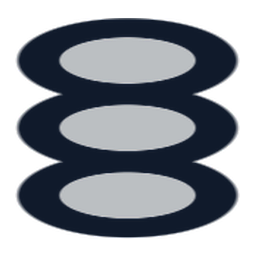
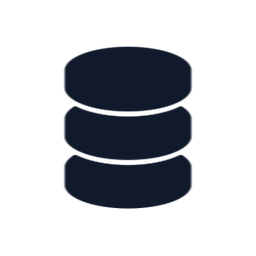
Collect is coins with gaps between them, and the motion moves to the button's own beat

diff --git a/tools/ui/build-hud-icon.js b/tools/ui/build-hud-icon.js
@@ -203,31 +203,50 @@ function reticleIcon() {
 }
 
 /**
- * A stack of coins, for the button that banks what the base has earned.
+ * Coins, drawn as coins: the stack that the collect button banks.
  *
- * Collecting is the most repeated act in the game, and it was announced by a plate reading
- * "E COLLECT 4.2K" parked above the controls. The amount belongs in the counter, which
- * already states the pool; the button only has to say what it does, and three discs with a
- * rim say coins at any size.
+ * The first version stacked three flat ellipses and lightened the inside of each one so the
+ * pile would not read as a blob. Tone is the wrong tool for this. On the gold disc the
+ * lightened faces let the plate show through and the glyph came out muddy, and at the size a
+ * thumb sees it the interior is the first thing that disappears: "le seul qui est un peu
+ * confus" (owner, 5 Sep). This repo already knew the answer and wrote it under the crate,
+ * three functions below: it is the GAPS that draw, not the added lines.
+ *
+ * So each coin is a capsule with elliptical caps, a face and a short side, and each one knocks
+ * a clear gap out of the coin under it. Three solid pieces, two clean separations, nothing to
+ * read inside. The perspective is the genre's: seen from just above, which is what makes a
+ * disc read as money rather than as a button.
  */
-function collectIcon() {
+const PIECE = { rx: 0.28, ry: 0.105, cote: 0.075, jeu: 0.022 }
+
+/** Coverage of one coin: a vertical capsule whose caps are ellipses, antialiased over a pixel. */
+function piece(fx, fy, cx, cy, grossi) {
+  const rx = PIECE.rx + grossi, ry = PIECE.ry + grossi
+  const dy = fy < cy ? fy - cy : fy > cy + PIECE.cote ? fy - (cy + PIECE.cote) : 0
+  const e = Math.hypot((fx - cx) / rx, dy / ry)
+  return Math.min(1, Math.max(0, (1 - e) * SIZE * 0.09))
+}
+
+/**
+ * The stack, with its top coin lifted by `envol`.
+ *
+ * The still picture says money; the button says COLLECT by MOVING it. `Pouce` plays a pose
+ * for 220 ms, the next for 100, then holds the rest pose, so the three files read as one coin
+ * dropping onto the pile, which is the act the button performs. A trail or a second coin in
+ * the air was tried instead and failed its own silhouette test: at 87 px on a phone the
+ * strokes vanish and the flying coin reads as a second stack (rendered and measured, 5 Sep).
+ */
+function collectIcon(envol = 0) {
   const px = Buffer.alloc(SIZE * SIZE * 4)
   const S = SIZE
-  const disques = [
-    { cy: 0.70, rx: 0.30, ry: 0.115 },
-    { cy: 0.52, rx: 0.30, ry: 0.115 },
-    { cy: 0.34, rx: 0.30, ry: 0.115 }
-  ]
+  const hauteurs = [0.66, 0.45, 0.24 - envol]
   for (let y = 0; y < S; y++) {
     for (let x = 0; x < S; x++) {
-      const fx = (x + 0.5) / S - 0.5, fy = (y + 0.5) / S
+      const fx = (x + 0.5) / S, fy = (y + 0.5) / S
       let a = 0
-      for (const d of disques) {
-        // An ellipse, and a lighter one inside it so the stack does not read as one blob.
-        const e = Math.hypot(fx / d.rx, (fy - d.cy) / d.ry)
-        const plein = Math.min(1, Math.max(0, (1 - e) * S * 0.09))
-        const creux = Math.min(1, Math.max(0, (1 - Math.hypot(fx / (d.rx * 0.62), (fy - d.cy) / (d.ry * 0.55))) * S * 0.09))
-        a = Math.max(a, Math.max(0, plein - creux * 0.72))
+      for (const cy of hauteurs) {
+        a = Math.max(0, a - piece(fx, fy, 0.5, cy, PIECE.jeu))
+        a = Math.max(a, piece(fx, fy, 0.5, cy, 0))
       }
       const o = (y * S + x) * 4
       px[o] = ENCRE[0]; px[o + 1] = ENCRE[1]; px[o + 2] = ENCRE[2]
@@ -503,8 +522,25 @@ for (const [nom, dessin] of VERBES) {
   ENCRE = NAVY
   fichiers.push([`encre-${nom}.png`, dessin()])
 }
+// The coin drop, two poses beside the rest pose already written above.
+for (const [pose, envol] of [['raised', 0.17], ['mid', 0.07]]) {
+  ENCRE = BLANC
+  fichiers.push([`icon-collect-${pose}.png`, collectIcon(envol)])
+  ENCRE = NAVY
+  fichiers.push([`encre-collect-${pose}.png`, collectIcon(envol)])
+}
 
+/*
+  With no argument this writes the whole set, which is how it has always run. With one or more
+  arguments it writes only the files whose name contains one of them: `node build-hud-icon.js
+  collect` touches the four collect pictures and leaves everything else alone. That matters
+  because three of the names here are also written by newer tools (`build-mallet-icon.py` for
+  the hammer, `build-weapon-icons.py` for the gun and the holster), and a full run would put
+  the old drawings back over them.
+*/
+const filtres = process.argv.slice(2)
 for (const [nom, buf] of fichiers) {
+  if (filtres.length > 0 && !filtres.some((f) => nom.includes(f))) continue
   fs.writeFileSync(path.join(dossier, nom), buf)
   console.log('wrote assets/ui/' + nom, buf.length + ' B')
 }

diff --git a/src/ui.tsx b/src/ui.tsx
@@ -452,13 +452,27 @@ function poussee(): number { return Math.max(0, 1 - (Date.now() - gainA) / 260) 
 function gainMonte(): number { return Math.min(1, (Date.now() - gainA) / 900) }
 function gainRecent(): string { return gainMontant > 0 && Date.now() - gainA < 900 ? `+${formatIncome(gainMontant)}` : '' }
 
+/*
+  The verbs that MOVE, and the two poses each of them plays.
+
+  A mallet strikes and a coin drops onto the pile: both are gestures, not objects. `Pouce`
+  shows the first pose for 220 ms, the second for 100, then holds the still picture, so each
+  reads as one movement per beat and costs two texture swaps. Motion belongs here, in time,
+  and not inside the still drawing: a trail drawn into the coin glyph itself disappeared at
+  thumb size when it was tried and rendered (5 Sep).
+*/
+const POSES = ['build', 'collect'] as const
+function posesDe(icone: string | undefined): [string, string] | undefined {
+  const nom = POSES.find((v) => icone === ico(v))
+  return nom === undefined ? undefined : [`${ico(nom)}-raised`, `${ico(nom)}-mid`]
+}
+
 const PRECHAUFFE = [
   'panel', 'card', 'inset', 'primary', 'secondary', 'danger', 'fade-left', 'fade-right',
   'toy-0', 'toy-1', 'toy-2', 'toy-3', 'toy-4', 'toy-5', 'toy-6',
   // Les trois boutons satellites, puis les quatorze verbes du bouton contextuel dans la
   // famille active, quelle qu'elle soit: voir `client/icones.ts`.
-  'icon-gun', 'icon-slap', 'icon-taser', 'icon-holster', 'icon-jump', 'icon-glide', 'icon-menu',
-  ...ICONES_VERBES, `${ico('build')}-raised`, `${ico('build')}-mid`,
+  ...ICONES_VERBES, ...POSES.flatMap((v) => [`${ico(v)}-raised`, `${ico(v)}-mid`]),
   // The interface icon family and the reveal's ray fan. A texture named for the first time
   // while a panel is drawing arrives a beat late, and the player sees an empty square where
   // the crate should be (owner, 1 Sep). Anything the interface can show has to be listed
@@ -563,9 +577,9 @@ const PadControls = () => {
       {a !== null ? (
         <Pouce icone={combatView.aiming ? ico('fire') : (a.icon ?? ico('collect'))} taille={pad.gros}
           bas={0} droite={0} primaire actions={[InputAction.IA_PRIMARY]}
-          frames={!combatView.aiming && a.icon === ico('build') ? BUILD_FRAMES : undefined}
+          frames={!combatView.aiming ? posesDe(a.icon) : undefined}
           pulse={!combatView.aiming && stepExpects(a.id)}
-          periodMs={BUILD_SWING_MS} touche={touche('E')} />
+          periodMs={SWING_MS} touche={touche('E')} />
       ) : (
         <Pouce icone={combatView.aiming ? ico('fire') : ico(stepVerb())} taille={pad.gros}
           bas={0} droite={0} primaire disabled={!combatView.aiming}
@@ -579,10 +593,8 @@ const PadControls = () => {
   The pad's numbers live in layout.ts as THUMB, measured on the client's own pad. The arc
   below only decides where the three satellites go on that orbit.
 */
-/** The mallet's two swing poses, in the active icon family, and the beat they play on. */
-const BUILD_FRAMES: [string, string] = [`${ico('build')}-raised`, `${ico('build')}-mid`]
 // 800 was noise on the board (owner, 3 Sep); a beat and a fifth is the first value that was not.
-const BUILD_SWING_MS = 1200
+const SWING_MS = 1200
 
 /** The desktop canvas is 1080 high against the phone's 720: the same pad, drawn at that ratio. */
 const DESKTOP_PAD_SCALE = 1.5

diff --git a/src/client/build-stamp.ts b/src/client/build-stamp.ts
@@ -6,4 +6,4 @@
  * construction: the code may be wrong, or the client may simply be showing the previous
  * version. Two hours of that argument (1 Sep) is what this four-character string ends.
  */
-export const BUILD = '8c5f'
+export const BUILD = '9ab0'

diff --git a/tools/ui/normalise-glyphs.py b/tools/ui/normalise-glyphs.py
@@ -56,11 +56,12 @@ VERBS = [
 
 # One entry is one group scaled together. Single files are their own group.
 GROUPS = []
+# A verb with poses: the rest pose first, because the group is centred on it.
+POSED = {'build': ['-raised', '-mid'], 'collect': ['-raised', '-mid']}
 for verb in VERBS:
-    if verb == 'build':
-        # The hammer's three poses are one swing: one bound, one scale, one offset.
-        GROUPS.append(['icon-build', 'icon-build-raised', 'icon-build-mid'])
-        GROUPS.append(['encre-build', 'encre-build-raised', 'encre-build-mid'])
+    if verb in POSED:
+        for family in ('icon', 'encre'):
+            GROUPS.append([f'{family}-{verb}'] + [f'{family}-{verb}{p}' for p in POSED[verb]])
     else:
         GROUPS.append([f'icon-{verb}'])
         GROUPS.append([f'encre-{verb}'])
